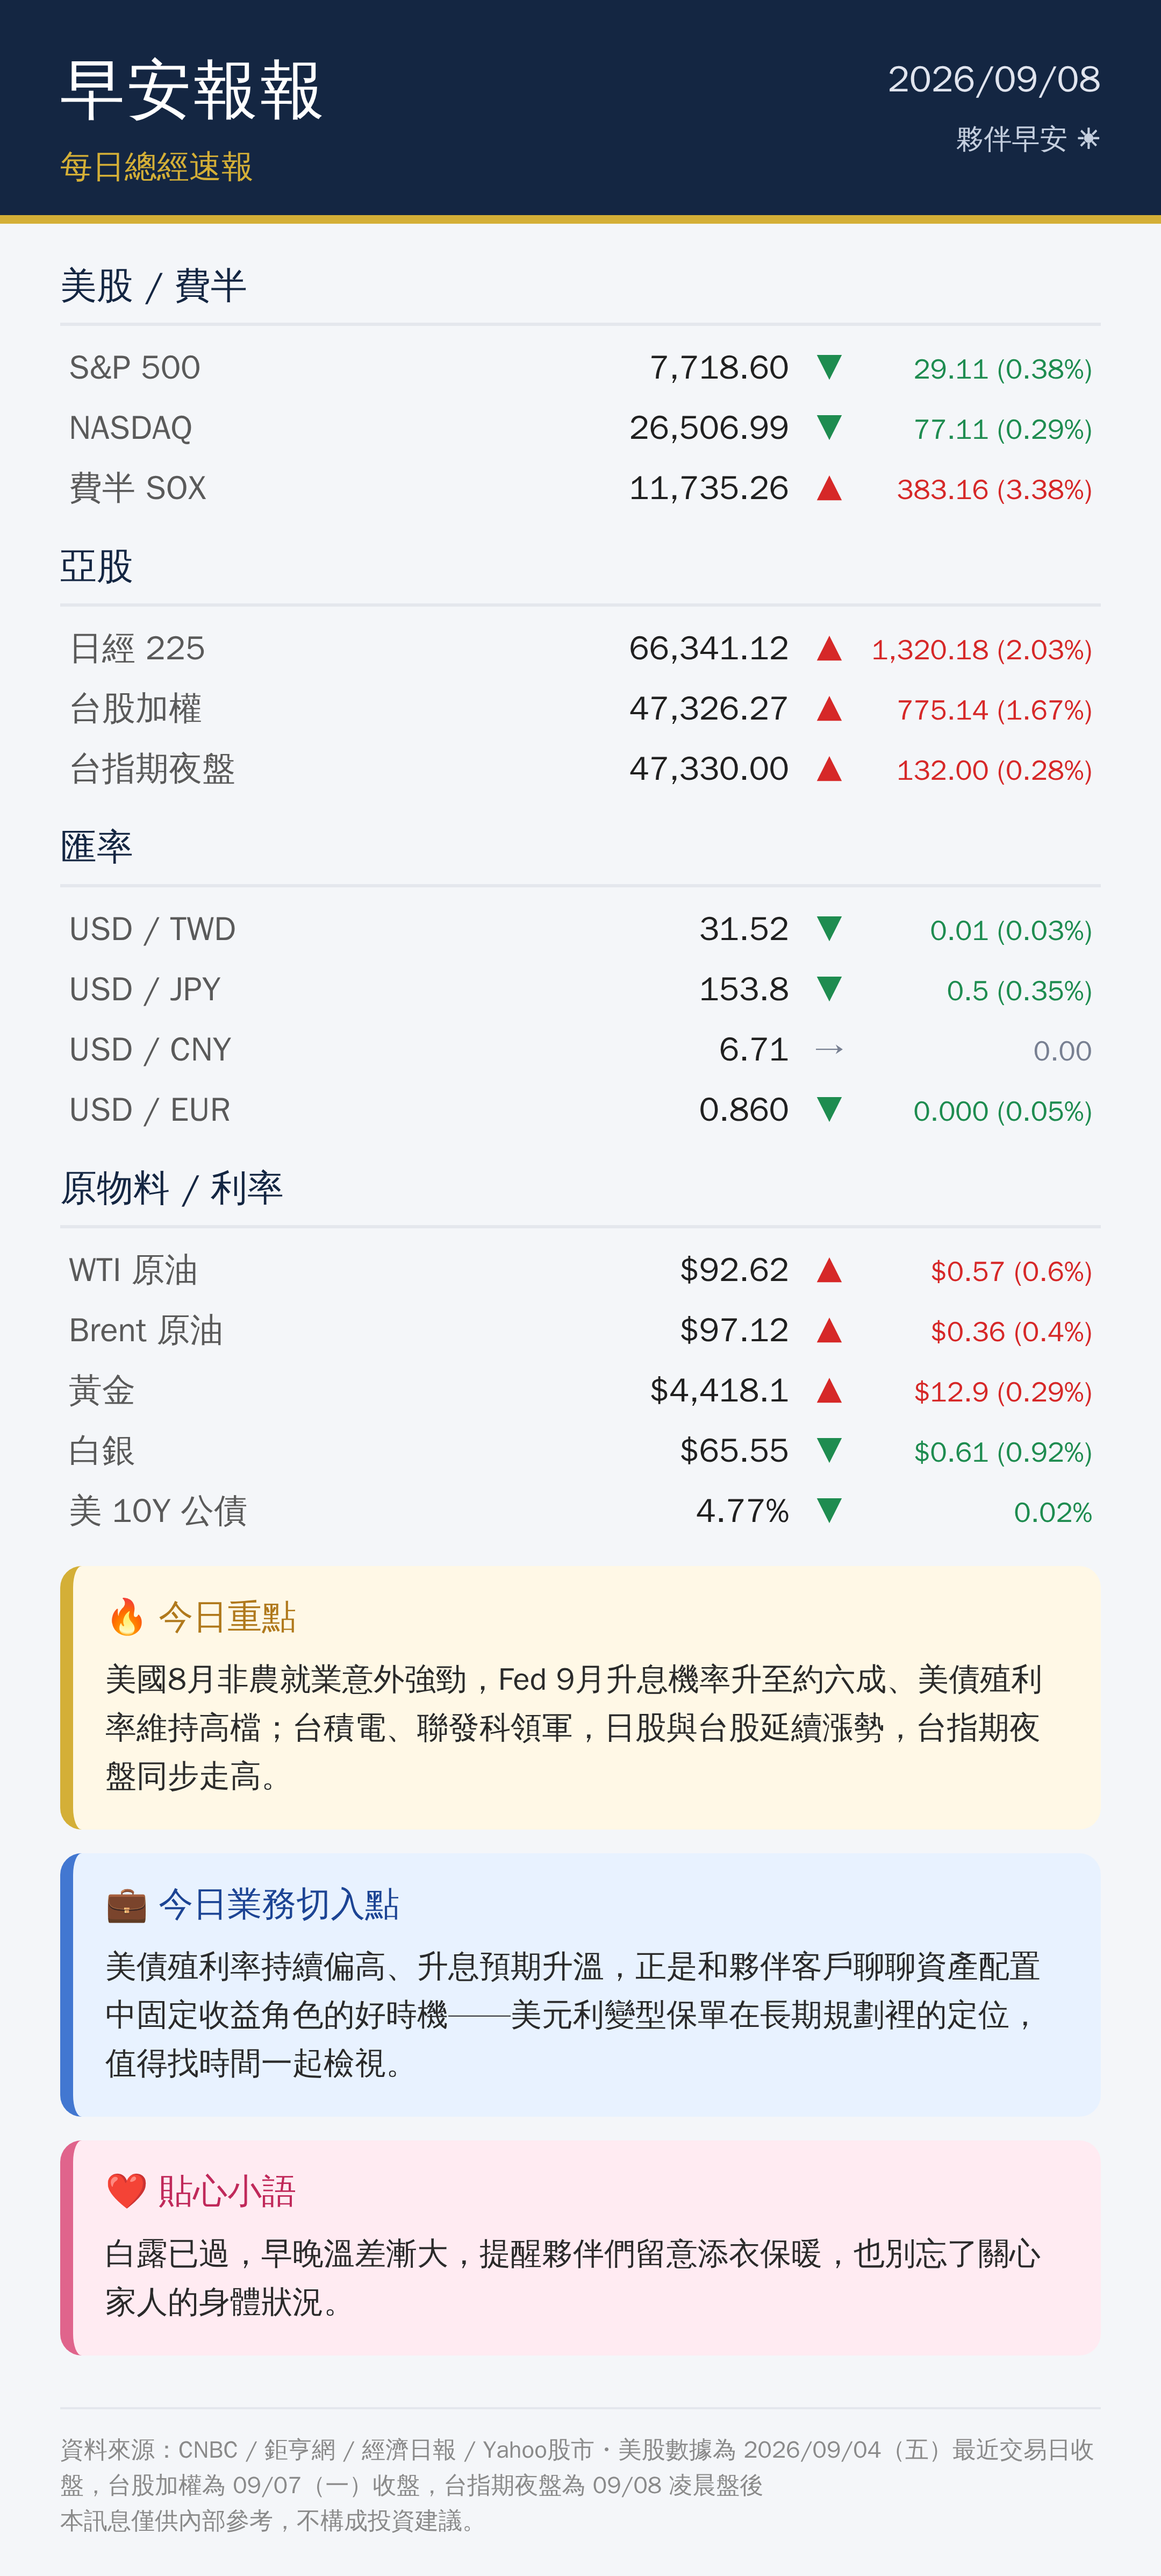
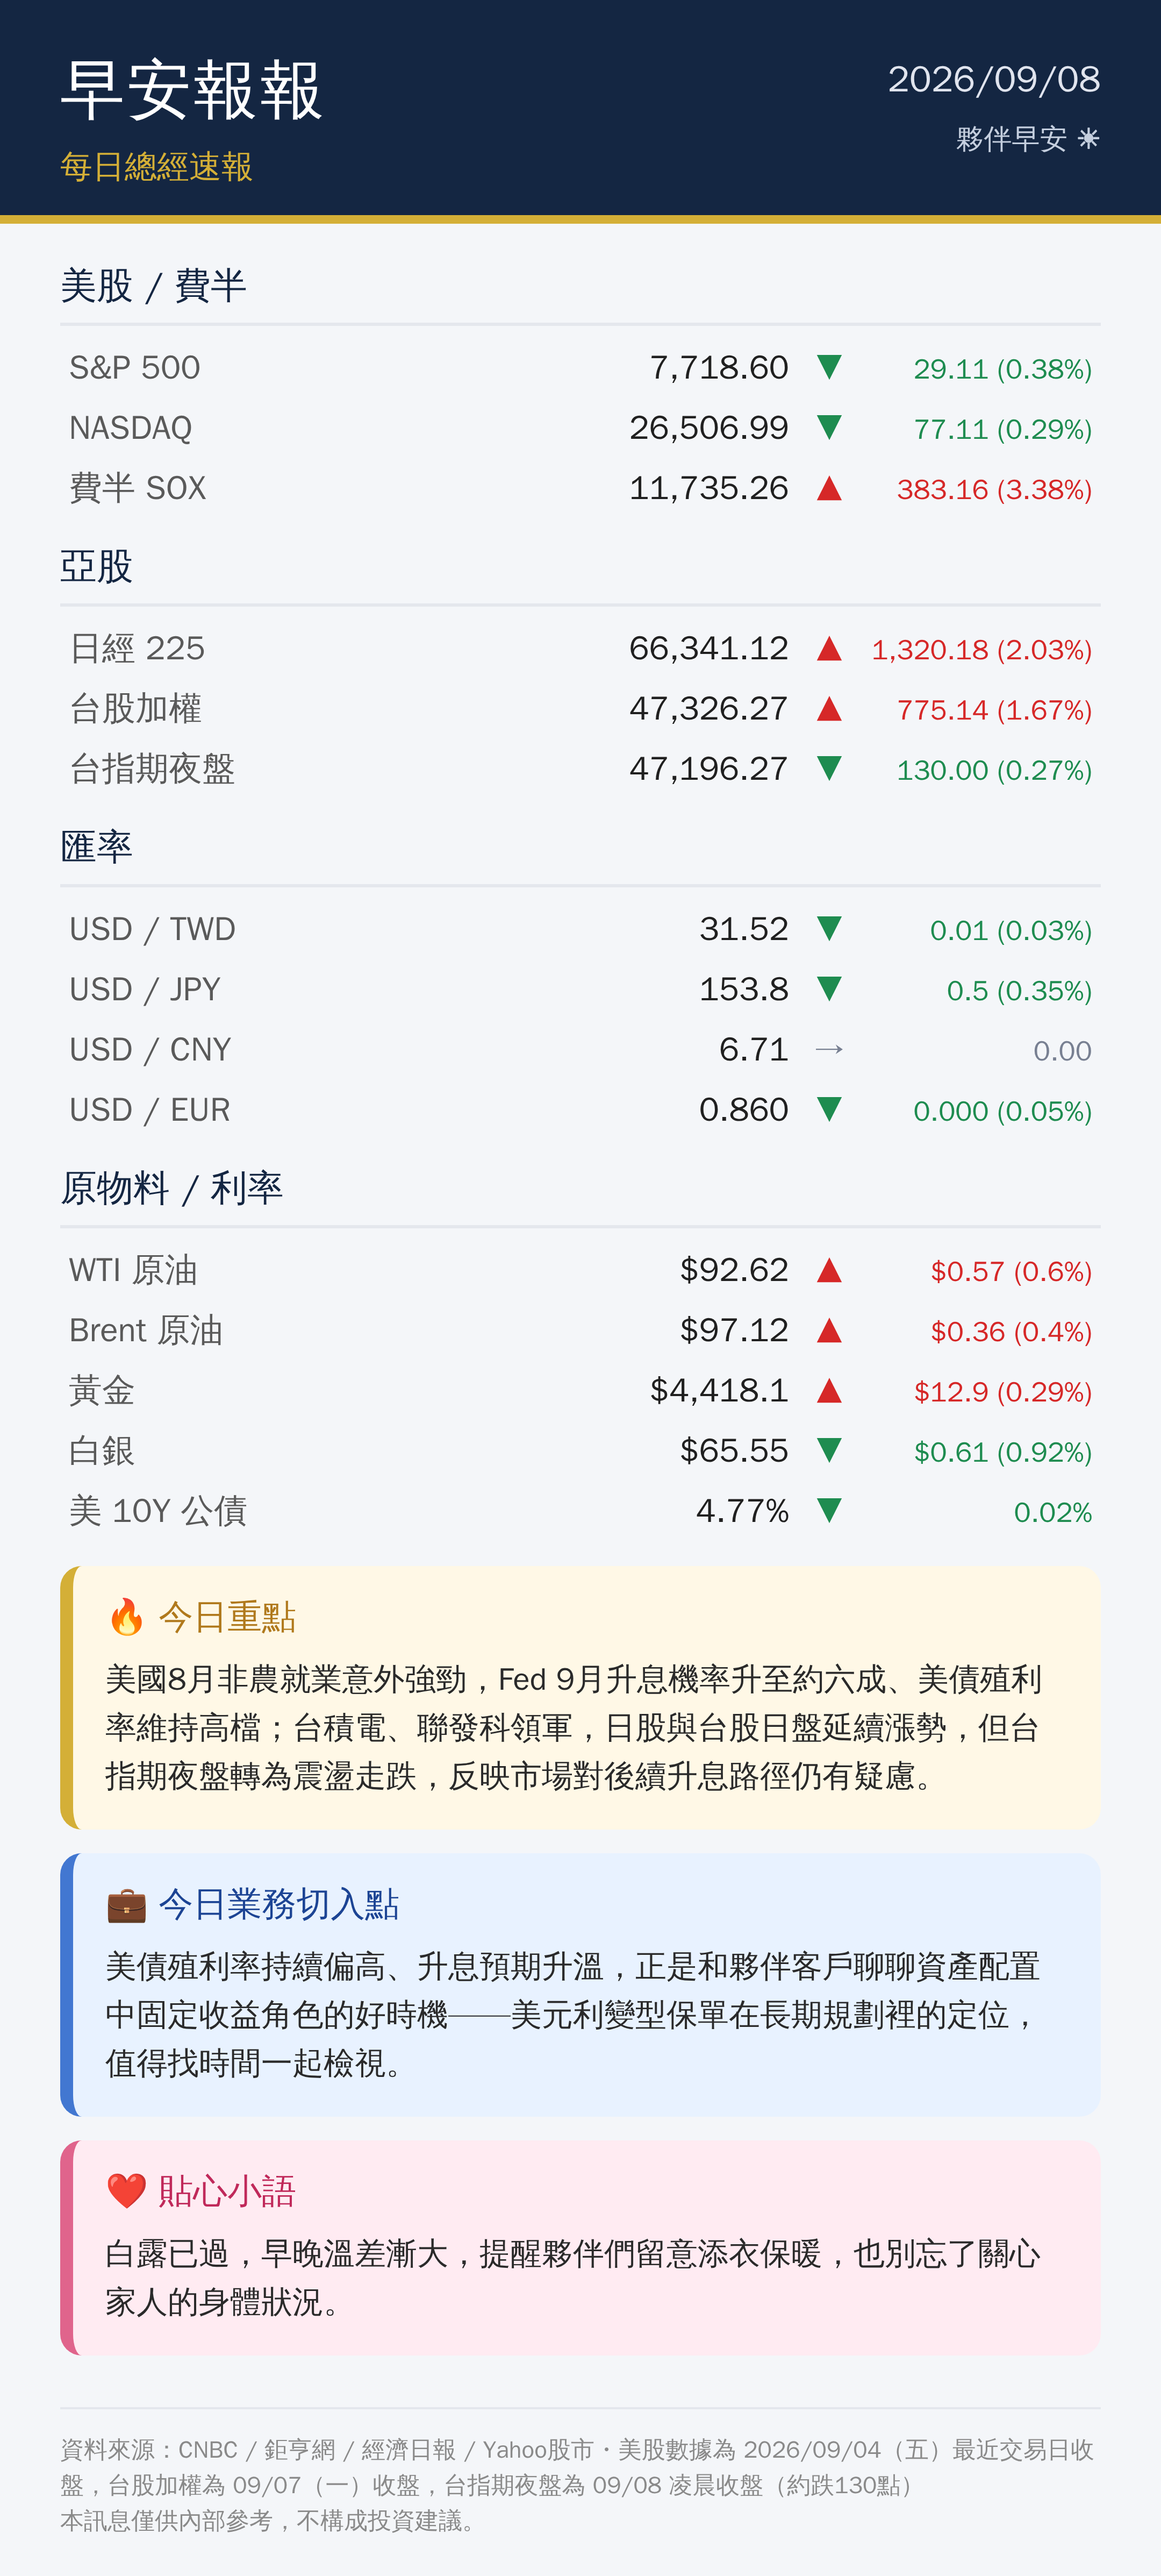
Correct 2026-09-08 report: TAIEX night futures was down, not up
User (Neil) confirmed actual overnight move was roughly -130pts. The
original figure came from a mid-session snapshot (00:47) rather than
the close near 05:00, and the session had faded/reversed lower by
the end of trading.

Claude-Session: https://claude.ai/code/session_017EiX5Y2ZnoMVK2Riu2bfCh

diff --git a/reports/2026-09-08/card.html b/reports/2026-09-08/card.html
@@ -43,6 +43,6 @@
     <div class="brand-sub">每日總經速報</div>
     <div class="hdr-right"><div class="hdr-date">2026/09/08</div><div class="hdr-hi">夥伴早安 ☀</div></div>
   </div>
-  <div class="body"><div class="sec"><div class="sec-title">美股 / 費半</div><div class="row"><span class="label">S&amp;P 500</span><span class="val">7,718.60</span><span class="arr" style="color:#1e8c50">▼</span><span class="pct" style="color:#1e8c50">29.11 (0.38%)</span></div><div class="row"><span class="label">NASDAQ</span><span class="val">26,506.99</span><span class="arr" style="color:#1e8c50">▼</span><span class="pct" style="color:#1e8c50">77.11 (0.29%)</span></div><div class="row"><span class="label">費半 SOX</span><span class="val">11,735.26</span><span class="arr" style="color:#d62828">▲</span><span class="pct" style="color:#d62828">383.16 (3.38%)</span></div></div><div class="sec"><div class="sec-title">亞股</div><div class="row"><span class="label">日經 225</span><span class="val">66,341.12</span><span class="arr" style="color:#d62828">▲</span><span class="pct" style="color:#d62828">1,320.18 (2.03%)</span></div><div class="row"><span class="label">台股加權</span><span class="val">47,326.27</span><span class="arr" style="color:#d62828">▲</span><span class="pct" style="color:#d62828">775.14 (1.67%)</span></div><div class="row"><span class="label">台指期夜盤</span><span class="val">47,330.00</span><span class="arr" style="color:#d62828">▲</span><span class="pct" style="color:#d62828">132.00 (0.28%)</span></div></div><div class="sec"><div class="sec-title">匯率</div><div class="row"><span class="label">USD / TWD</span><span class="val">31.52</span><span class="arr" style="color:#1e8c50">▼</span><span class="pct" style="color:#1e8c50">0.01 (0.03%)</span></div><div class="row"><span class="label">USD / JPY</span><span class="val">153.8</span><span class="arr" style="color:#1e8c50">▼</span><span class="pct" style="color:#1e8c50">0.5 (0.35%)</span></div><div class="row"><span class="label">USD / CNY</span><span class="val">6.71</span><span class="arr" style="color:#788092">→</span><span class="pct" style="color:#788092">0.00</span></div><div class="row"><span class="label">USD / EUR</span><span class="val">0.860</span><span class="arr" style="color:#1e8c50">▼</span><span class="pct" style="color:#1e8c50">0.000 (0.05%)</span></div></div><div class="sec"><div class="sec-title">原物料 / 利率</div><div class="row"><span class="label">WTI 原油</span><span class="val">$92.62</span><span class="arr" style="color:#d62828">▲</span><span class="pct" style="color:#d62828">$0.57 (0.6%)</span></div><div class="row"><span class="label">Brent 原油</span><span class="val">$97.12</span><span class="arr" style="color:#d62828">▲</span><span class="pct" style="color:#d62828">$0.36 (0.4%)</span></div><div class="row"><span class="label">黃金</span><span class="val">$4,418.1</span><span class="arr" style="color:#d62828">▲</span><span class="pct" style="color:#d62828">$12.9 (0.29%)</span></div><div class="row"><span class="label">白銀</span><span class="val">$65.55</span><span class="arr" style="color:#1e8c50">▼</span><span class="pct" style="color:#1e8c50">$0.61 (0.92%)</span></div><div class="row"><span class="label">美 10Y 公債</span><span class="val">4.77%</span><span class="arr" style="color:#1e8c50">▼</span><span class="pct" style="color:#1e8c50">0.02%</span></div></div><div class="box box-gold"><div class="box-title">🔥 今日重點</div><div class="box-body">美國8月非農就業意外強勁，Fed 9月升息機率升至約六成、美債殖利率維持高檔；台積電、聯發科領軍，日股與台股延續漲勢，台指期夜盤同步走高。</div></div><div class="box box-blue"><div class="box-title">💼 今日業務切入點</div><div class="box-body">美債殖利率持續偏高、升息預期升溫，正是和夥伴客戶聊聊資產配置中固定收益角色的好時機——美元利變型保單在長期規劃裡的定位，值得找時間一起檢視。</div></div><div class="box box-pink"><div class="box-title">❤ 貼心小語</div><div class="box-body">白露已過，早晚溫差漸大，提醒夥伴們留意添衣保暖，也別忘了關心家人的身體狀況。</div></div></div>
-  <div class="foot">資料來源：CNBC / 鉅亨網 / 經濟日報 / Yahoo股市・美股數據為 2026/09/04（五）最近交易日收盤，台股加權為 09/07（一）收盤，台指期夜盤為 09/08 凌晨盤後<br>本訊息僅供內部參考，不構成投資建議。</div>
+  <div class="body"><div class="sec"><div class="sec-title">美股 / 費半</div><div class="row"><span class="label">S&amp;P 500</span><span class="val">7,718.60</span><span class="arr" style="color:#1e8c50">▼</span><span class="pct" style="color:#1e8c50">29.11 (0.38%)</span></div><div class="row"><span class="label">NASDAQ</span><span class="val">26,506.99</span><span class="arr" style="color:#1e8c50">▼</span><span class="pct" style="color:#1e8c50">77.11 (0.29%)</span></div><div class="row"><span class="label">費半 SOX</span><span class="val">11,735.26</span><span class="arr" style="color:#d62828">▲</span><span class="pct" style="color:#d62828">383.16 (3.38%)</span></div></div><div class="sec"><div class="sec-title">亞股</div><div class="row"><span class="label">日經 225</span><span class="val">66,341.12</span><span class="arr" style="color:#d62828">▲</span><span class="pct" style="color:#d62828">1,320.18 (2.03%)</span></div><div class="row"><span class="label">台股加權</span><span class="val">47,326.27</span><span class="arr" style="color:#d62828">▲</span><span class="pct" style="color:#d62828">775.14 (1.67%)</span></div><div class="row"><span class="label">台指期夜盤</span><span class="val">47,196.27</span><span class="arr" style="color:#1e8c50">▼</span><span class="pct" style="color:#1e8c50">130.00 (0.27%)</span></div></div><div class="sec"><div class="sec-title">匯率</div><div class="row"><span class="label">USD / TWD</span><span class="val">31.52</span><span class="arr" style="color:#1e8c50">▼</span><span class="pct" style="color:#1e8c50">0.01 (0.03%)</span></div><div class="row"><span class="label">USD / JPY</span><span class="val">153.8</span><span class="arr" style="color:#1e8c50">▼</span><span class="pct" style="color:#1e8c50">0.5 (0.35%)</span></div><div class="row"><span class="label">USD / CNY</span><span class="val">6.71</span><span class="arr" style="color:#788092">→</span><span class="pct" style="color:#788092">0.00</span></div><div class="row"><span class="label">USD / EUR</span><span class="val">0.860</span><span class="arr" style="color:#1e8c50">▼</span><span class="pct" style="color:#1e8c50">0.000 (0.05%)</span></div></div><div class="sec"><div class="sec-title">原物料 / 利率</div><div class="row"><span class="label">WTI 原油</span><span class="val">$92.62</span><span class="arr" style="color:#d62828">▲</span><span class="pct" style="color:#d62828">$0.57 (0.6%)</span></div><div class="row"><span class="label">Brent 原油</span><span class="val">$97.12</span><span class="arr" style="color:#d62828">▲</span><span class="pct" style="color:#d62828">$0.36 (0.4%)</span></div><div class="row"><span class="label">黃金</span><span class="val">$4,418.1</span><span class="arr" style="color:#d62828">▲</span><span class="pct" style="color:#d62828">$12.9 (0.29%)</span></div><div class="row"><span class="label">白銀</span><span class="val">$65.55</span><span class="arr" style="color:#1e8c50">▼</span><span class="pct" style="color:#1e8c50">$0.61 (0.92%)</span></div><div class="row"><span class="label">美 10Y 公債</span><span class="val">4.77%</span><span class="arr" style="color:#1e8c50">▼</span><span class="pct" style="color:#1e8c50">0.02%</span></div></div><div class="box box-gold"><div class="box-title">🔥 今日重點</div><div class="box-body">美國8月非農就業意外強勁，Fed 9月升息機率升至約六成、美債殖利率維持高檔；台積電、聯發科領軍，日股與台股日盤延續漲勢，但台指期夜盤轉為震盪走跌，反映市場對後續升息路徑仍有疑慮。</div></div><div class="box box-blue"><div class="box-title">💼 今日業務切入點</div><div class="box-body">美債殖利率持續偏高、升息預期升溫，正是和夥伴客戶聊聊資產配置中固定收益角色的好時機——美元利變型保單在長期規劃裡的定位，值得找時間一起檢視。</div></div><div class="box box-pink"><div class="box-title">❤ 貼心小語</div><div class="box-body">白露已過，早晚溫差漸大，提醒夥伴們留意添衣保暖，也別忘了關心家人的身體狀況。</div></div></div>
+  <div class="foot">資料來源：CNBC / 鉅亨網 / 經濟日報 / Yahoo股市・美股數據為 2026/09/04（五）最近交易日收盤，台股加權為 09/07（一）收盤，台指期夜盤為 09/08 凌晨收盤（約跌130點）<br>本訊息僅供內部參考，不構成投資建議。</div>
 </div></body></html>
